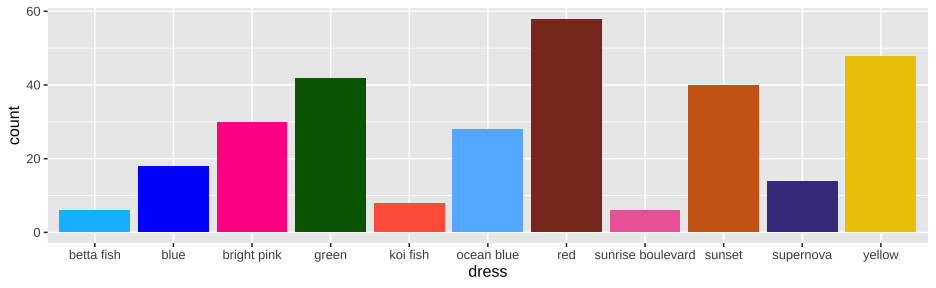
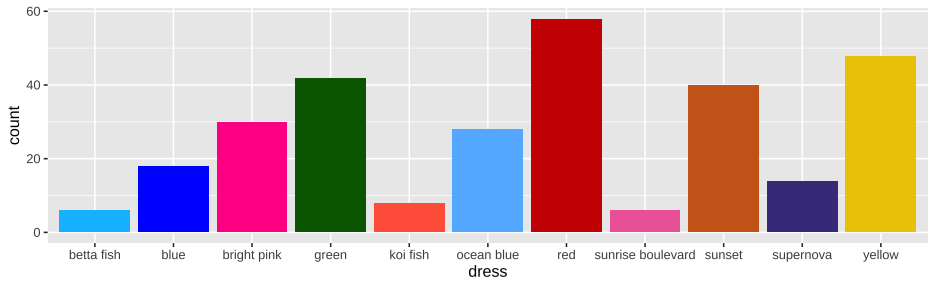
dress plot

Changed region(s): [[0.5577, 0.0625, 0.6506, 0.8125]]

diff --git a/static/slides/24-eda/index.html b/static/slides/24-eda/index.html
@@ -125,7 +125,7 @@ library(taylor)
 data(eras_tour_surprise) 
 ggplot(eras_tour_surprise, aes(x = dress)) + 
   geom_bar(stat = "count", fill = c("deepskyblue", "blue", "deeppink", "darkgreen", "tomato1", 
-                                      "steelblue1", "tomato4", "hotpink2", "chocolate3", "slateblue4", "gold2" ))
+                                      "steelblue1", "red3", "hotpink2", "chocolate3", "slateblue4", "gold2" )) 
 ```
 ]
 
@@ -133,6 +133,30 @@ ggplot(eras_tour_surprise, aes(x = dress)) +
 ![](index_files/figure-html/taylor-1-1.png) 
 
 (add labs(x = "Suprise Song Dress"))
+]
+]
+
+
+
+---
+## Example: `taylor` package: 
+Add labels to this plot's axes:
+
+
+.panelset[
+  .panel[.panel-name[Code]
+
+
+``` r
+ggplot(eras_tour_surprise, aes(x = forcats::fct_infreq(dress))) + 
+    geom_bar(stat = "count", fill = c("red3","gold2","darkgreen",  "chocolate3" ,  "deeppink", "blue","slateblue4", "steelblue1", "deepskyblue",   "tomato4", "hotpink2")) + labs(title = "Taylor Swift Surprise Song Dress Colors", subtitle = "Eras Tour", caption = 'source: taylor package', x = "Dress", y = "Number of times worn for performance")
+```
+]
+
+  .panel[.panel-name[Plot]
+![](index_files/figure-html/taylor-s-1.png) 
+
+(advanced: map color names to dresses to avoid sort issues!)
 ]
 ]
 
